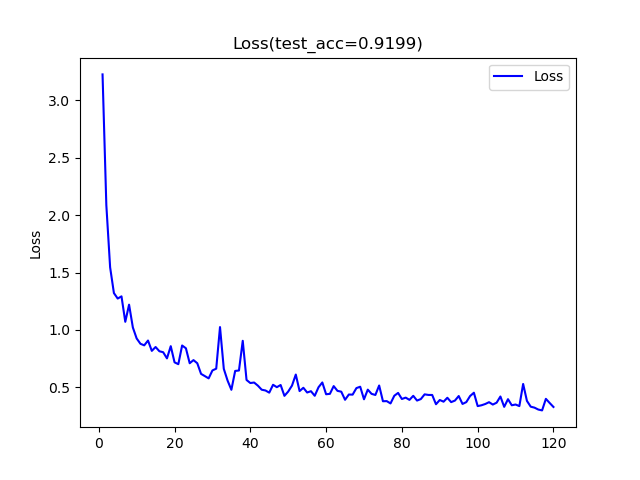
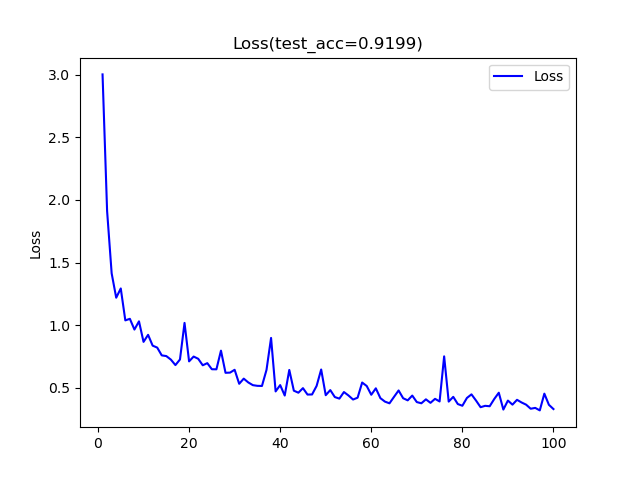
sgd

diff --git a/hw1/gradient_descent/SGD.py b/hw1/gradient_descent/SGD.py
@@ -109,5 +109,5 @@ class MLP:
 
 
 model = MLP(784, 10)
-model.train(train_data, train_label_one_hot, epoch=2, lr=0.06)
+model.train(train_data, train_label_one_hot, epoch=2, lr=0.05)
 model.plot_loss('SGD.png', model.test(test_data, test_label_one_hot))
